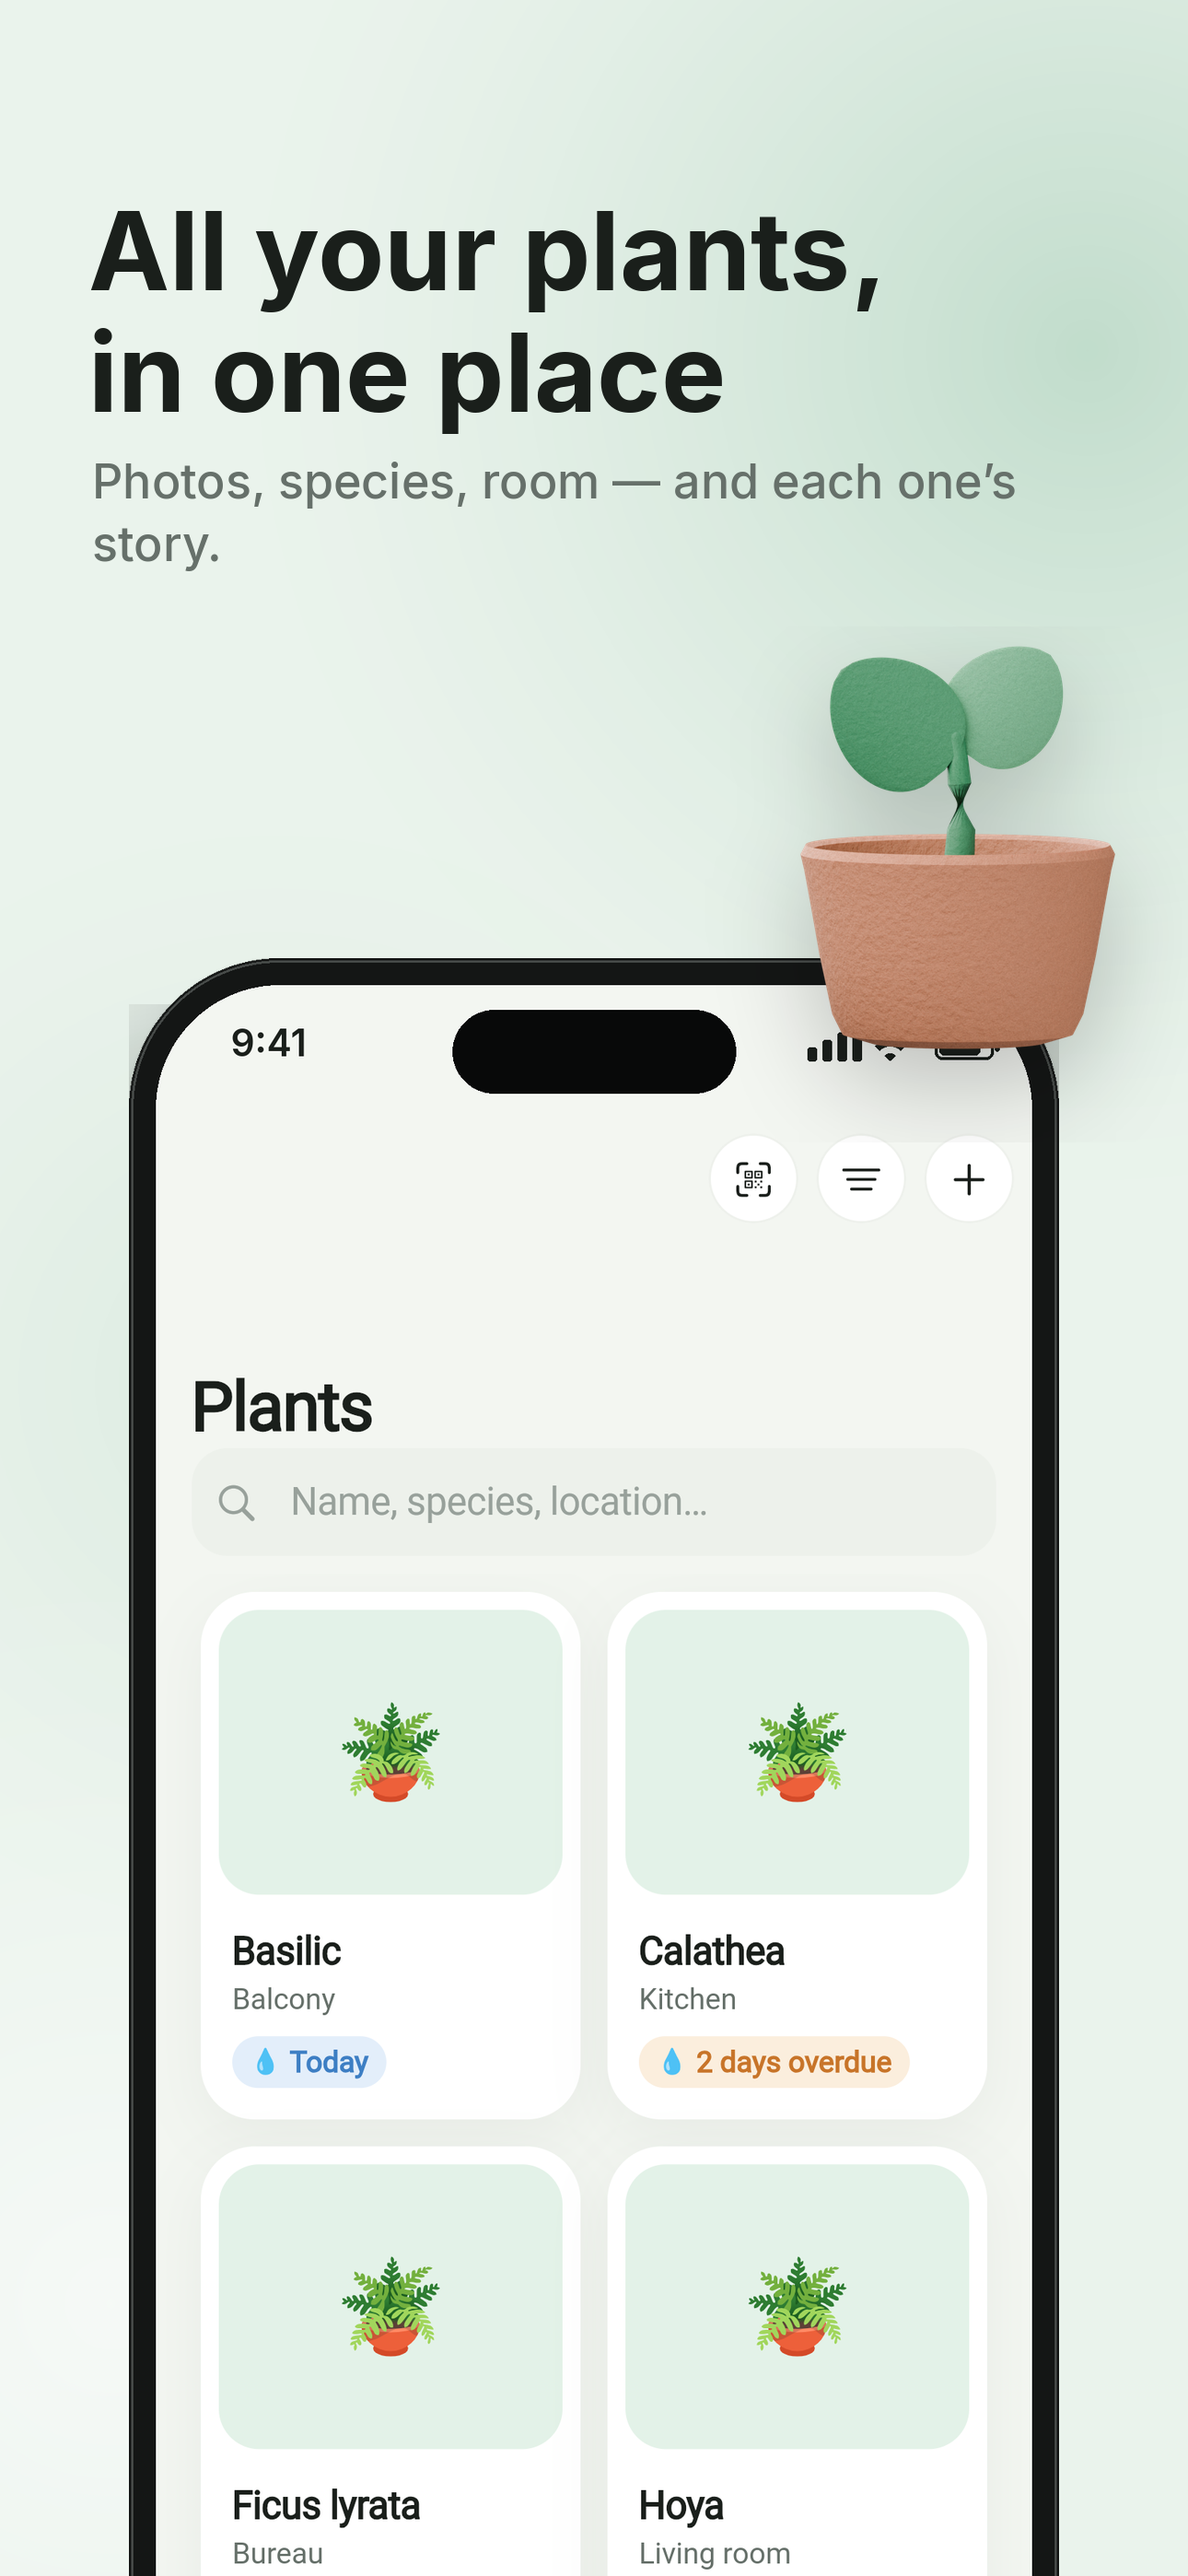
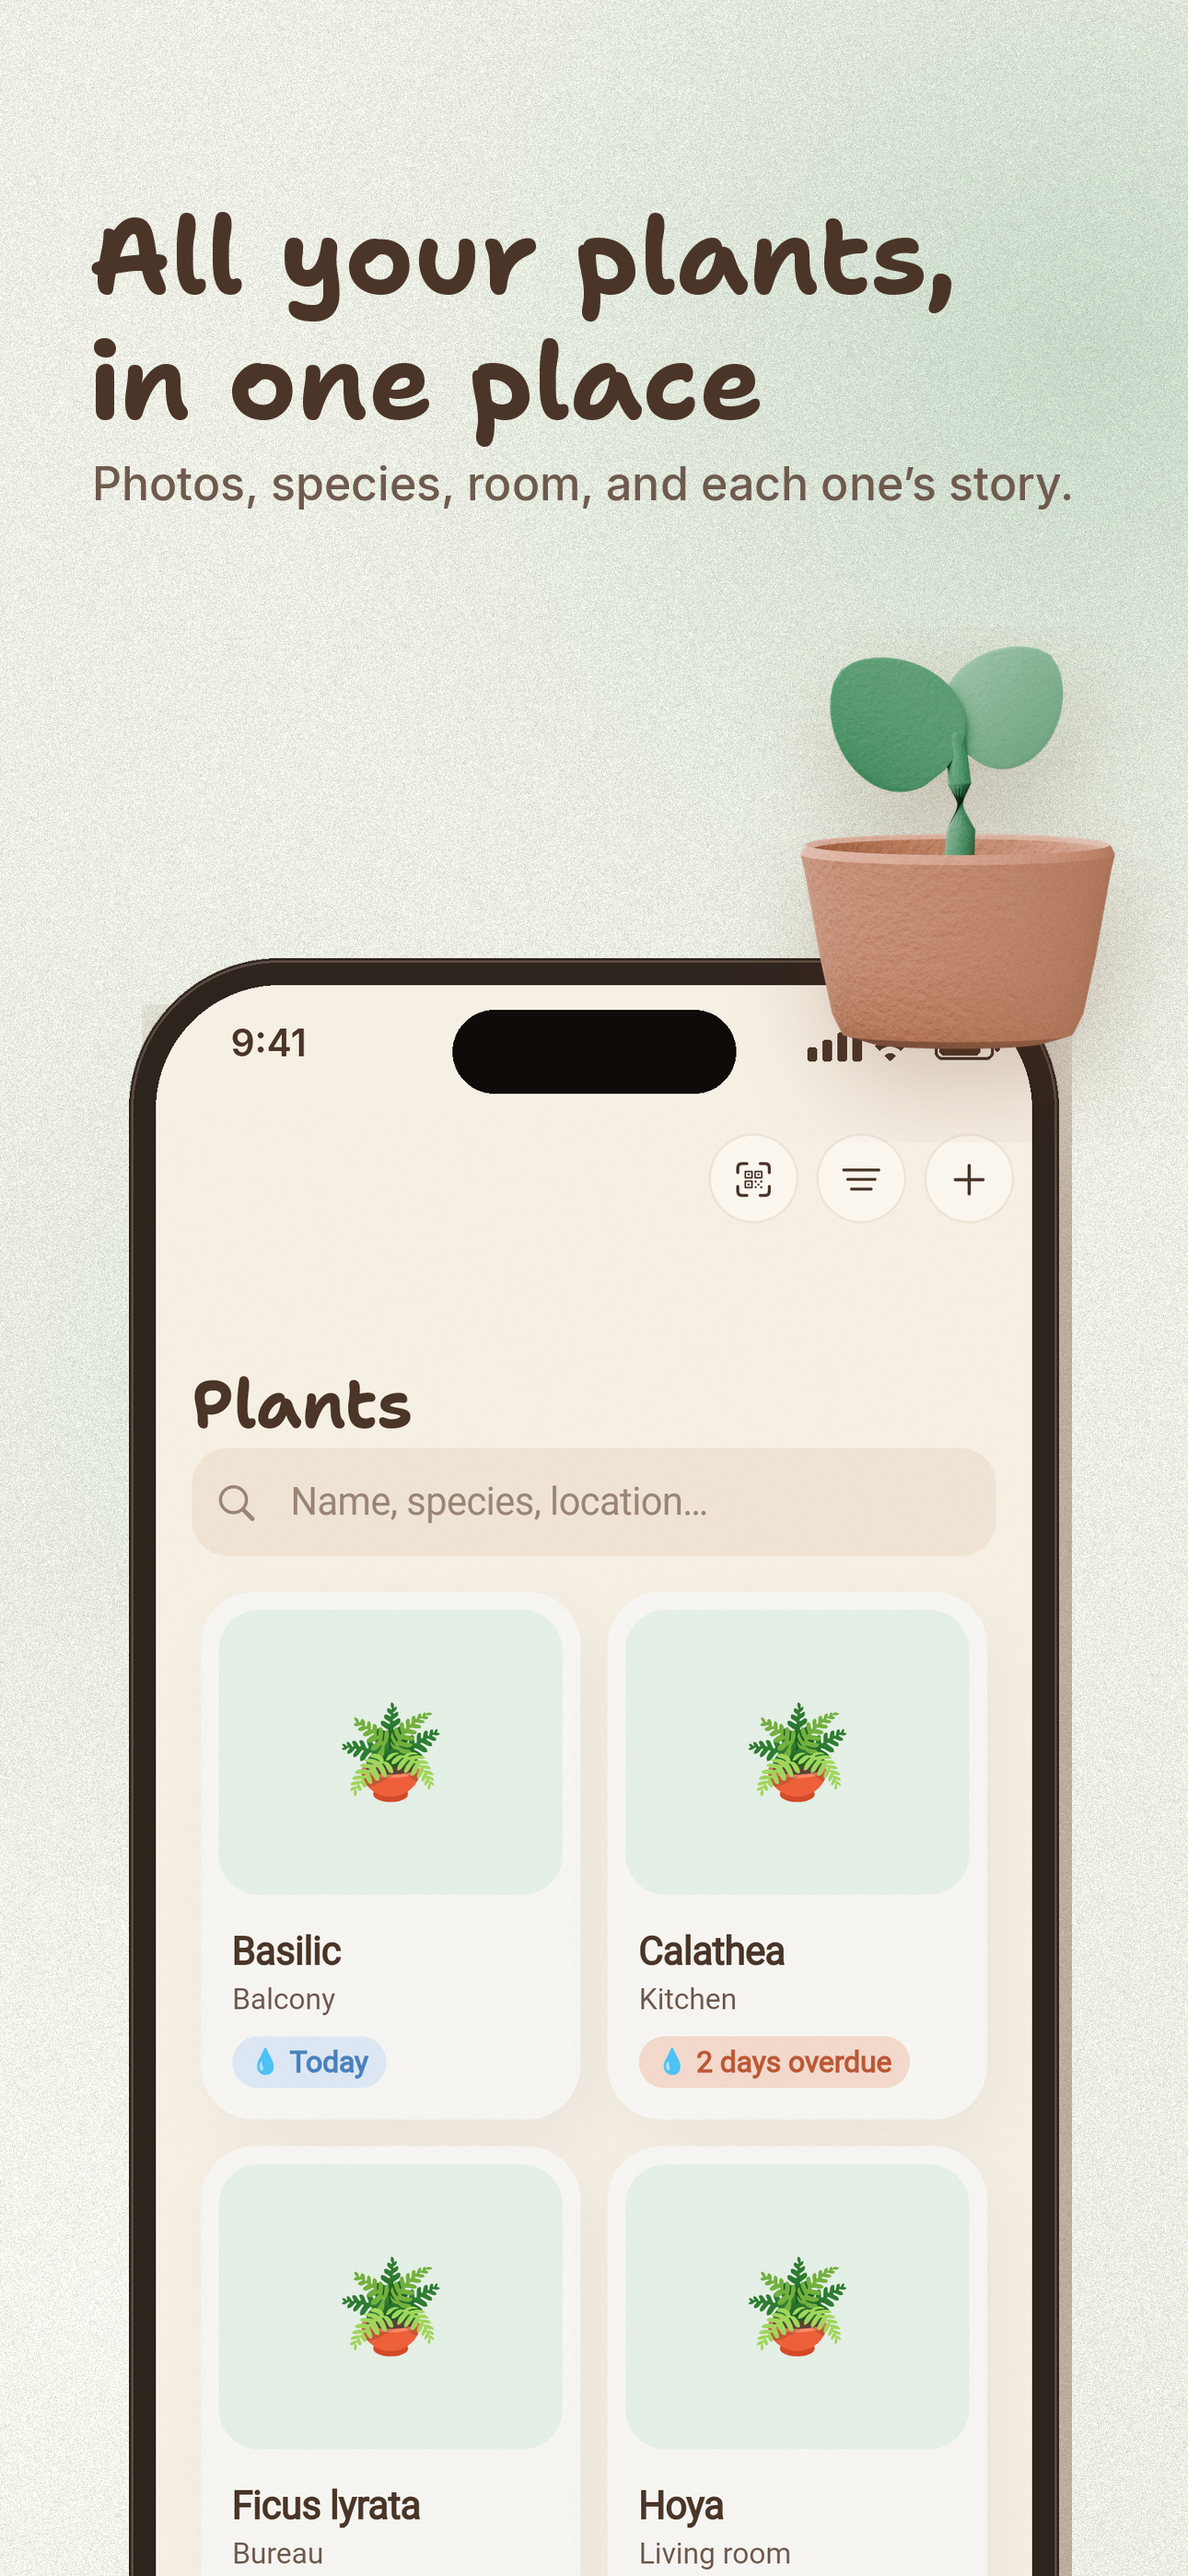
Visuels App Store : six pages en argile, français et anglais
Régénérés avec le nouveau compositeur : papier crème et grain, titres en
Shantell Sans, ombres brunes. Sixième page « Quelle est cette plante ? »
avec les vrais résultats du modèle sur une photo CC0 hors entraînement ;
store/ident/score.py les recalcule après chaque modèle. La ligne
« Calathea » se découpe à une hauteur propre à chaque langue.

Claude-Session: https://claude.ai/code/session_01UjxA1hQxNqRquYywnZsvGB

diff --git a/store/ident/score.py b/store/ident/score.py
@@ -1,0 +1,43 @@
+#!/usr/bin/env python3
+"""Ce que le modèle livré (assets/model) répond sur des photos.
+
+    python3 store/ident/score.py store/ident/ficus-lyrata.jpg
+
+Sert à recalculer IDENT_RESULTS dans store/compose.py après chaque nouveau
+modèle : le visuel « Quelle est cette plante ? » montre de vrais résultats.
+Le prétraitement est celui de l'app (tflite_plant_model.dart) : carré
+central, 448 puis 256 px, recadrage à 224.
+"""
+import csv
+import os
+import sys
+
+import numpy as np
+from PIL import Image
+
+ROOT = os.path.join(os.path.dirname(os.path.abspath(__file__)), '..', '..')
+
+
+def main(paths):
+    import tensorflow as tf
+    labels = [l.strip() for l in open(os.path.join(ROOT, 'assets/model/labels.txt')) if l.strip()]
+    with open(os.path.join(ROOT, 'tools/plant_dataset/plants.csv'), newline='', encoding='utf-8') as f:
+        names = {r['internal_id']: r['scientific_name'] for r in csv.DictReader(f)}
+    it = tf.lite.Interpreter(model_path=os.path.join(ROOT, 'assets/model/plants.tflite'))
+    it.allocate_tensors()
+    inp, out = it.get_input_details()[0], it.get_output_details()[0]
+    for p in paths:
+        im = Image.open(p).convert('RGB')
+        w, h = im.size
+        s = min(w, h)
+        im = im.crop(((w - s) // 2, (h - s) // 2, (w - s) // 2 + s, (h - s) // 2 + s))
+        im = im.resize((448, 448), Image.BOX).resize((256, 256), Image.BILINEAR).crop((16, 16, 240, 240))
+        it.set_tensor(inp['index'], np.asarray(im).astype(inp['dtype'])[None])
+        it.invoke()
+        pr = it.get_tensor(out['index'])[0].astype(float)
+        top = [(names.get(labels[i], labels[i]), round(float(pr[i]), 3)) for i in np.argsort(-pr)[:3]]
+        print(os.path.basename(p), top)
+
+
+if __name__ == '__main__':
+    main(sys.argv[1:])

diff --git a/store/compose.py b/store/compose.py
@@ -376,6 +376,10 @@ COPY = {
 }
 
 
+# La ligne « Calathea · Arroser » dans la capture d'Aujourd'hui, par langue.
+TODAY_ROW = {'fr': (54, 1636, 1116, 1916), 'en': (54, 1574, 1116, 1856)}
+
+
 def build(shots, out, lang):
     os.makedirs(out, exist_ok=True)
     n = model_classes()
@@ -396,7 +400,8 @@ def build(shots, out, lang):
     place_phone(img, S('today'), y=1060, angle=-3.5)
     place_clay(img, 2, 520, (60, 700))
     # la ligne « Calathea · Arroser », découpée dans la capture
-    sticker(img, S('today'), (54, 1636, 1116, 1916), 900, (330, 2060), angle=4)
+    # La ligne monte en anglais : la carte de rappel y tient sur une ligne de moins.
+    sticker(img, S('today'), TODAY_ROW[lang], 900, (330, 2060), angle=4)
     img.convert('RGB').save(os.path.join(out, '2.png'), optimize=True)
 
     # 3 — la fiche d'entretien

diff --git a/store/README.md b/store/README.md
@@ -1,9 +1,12 @@
 # Visuels du magasin
 
-Cinq visuels par langue, au format iPhone 6,7 pouces (1290 × 2796), sans le
+Six visuels par langue, au format iPhone 6,7 pouces (1290 × 2796), sans le
 nom de l'application. Chacun montre une capture réelle de l'app dans un
-iPhone dessiné, un objet 3D de la série clay de l'onboarding, un titre, et
-parfois un morceau d'interface découpé dans la capture et posé en avant.
+iPhone dessiné, un titre tracé en Shantell Sans (la police « main » de
+l'app), souvent un objet 3D de la série clay de l'onboarding, et parfois un
+morceau d'interface découpé dans la capture et posé en avant. Le fond est
+le papier crème de l'app, avec son grain ; les ombres sont brunes, jamais
+noires.
 
 | # | Écran | Objet | Teinte |
 |---|---|---|---|
@@ -12,6 +15,16 @@ parfois un morceau d'interface découpé dans la capture et posé en avant.
 | 3 | Fiche d'entretien | anneau et goutte | soleil |
 | 4 | Jardin, calendrier, avec quatre tuiles du tableau de bord en avant | quatre tuiles | terre cuite |
 | 5 | Sauvegarde | carte, cadenas, nuage | rose |
+| 6 | Fiche d'une plante, avec la feuille « Est-ce bien… » en avant | — | terre |
+
+Le sixième montre l'identification sur l'appareil. La feuille est redessinée
+à plat par `compose.py`, mais ce qu'elle affiche est vrai : la photo est une
+observation iNaturalist en CC0 (`ident/ficus-lyrata.jpg`, observation
+359128431, photo 655212161), absente du jeu d'entraînement, et les trois
+propositions avec leurs scores sont la réponse du modèle livré, obtenue par
+`ident/score.py`. Le nombre d'espèces vient de `assets/model/model.json`.
+Après chaque nouveau modèle : relancer `score.py`, reporter ses résultats
+dans `IDENT_RESULTS`, régénérer.
 
 `fr/` et `en/` contiennent les fichiers prêts à déposer dans App Store Connect.
 
@@ -37,7 +50,7 @@ web depuis Google Fonts : quand le navigateur ne peut pas y aller directement,
 le script relaie ces requêtes par `curl`, qui suit le proxy de la machine.
 
 `compose.py` télécharge la police Inter (SIL OFL) dans `store/fonts/` au
-premier lancement. Les captures et les polices ne sont pas versionnées.
+premier lancement ; Shantell Sans vient de `assets/fonts/`. Les captures et les polices ne sont pas versionnées.
 
 Les textes des visuels sont dans `compose.py` (`COPY`), coupés à la main pour
-que chaque titre tienne sur deux lignes ; la taille est commune aux cinq.
+que chaque titre tienne sur deux lignes ; la taille est commune aux six.
